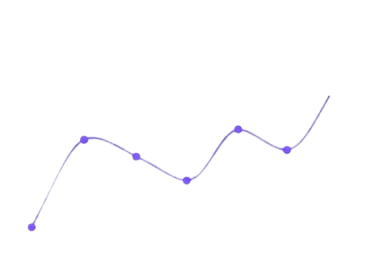
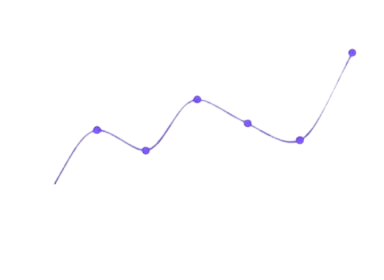
todays tasks UI

diff --git a/src/Pages/Dashboard/components/Task.jsx b/src/Pages/Dashboard/components/Task.jsx
@@ -1,0 +1,29 @@
+const Task = () => {
+  return (
+    <div className="flex items-start gap-4 rounded-xl border border-gray-200 p-3">
+      <input
+        className="mt-1.5 scale-125"
+        type="checkbox"
+        name=""
+        id=""
+        disabled
+      />
+      <div className="flex flex-1 justify-between">
+        <div className="flex flex-col gap-1">
+          <h3 className="text-sm font-bold">Design new dashboard UI</h3>
+          <p className="self-start rounded bg-red-50 px-1.5 py-1 text-sm font-medium text-red-600">
+            High
+          </p>
+          <p className="text-xs font-medium text-gray-400">
+            Due today, 11:59 PM
+          </p>
+        </div>
+        <p className="tag self-center rounded bg-green-200 text-green-600">
+          In Progress
+        </p>
+      </div>
+    </div>
+  );
+};
+
+export default Task;

diff --git a/src/Pages/Dashboard/components/TodaysTasks.jsx b/src/Pages/Dashboard/components/TodaysTasks.jsx
@@ -1,11 +1,17 @@
 import Button from "../../../components/Layout/Button";
+import Task from "./Task";
 
 const TodaysTasks = () => {
   return (
-    <section className="sections flex flex-col">
+    <section className="sections flex flex-col gap-3">
       <div className="flex justify-between">
         <h2 className="section-heading">Today's Tasks</h2>
         {/* <Button className="hollowBtn">View All</Button> */}
+      </div>
+      <div className="flex flex-col gap-3">
+        <Task />
+        <Task />
+        <Task />
       </div>
     </section>
   );

diff --git a/src/index.css b/src/index.css
@@ -30,4 +30,8 @@ body,
   .section-heading {
     @apply text-lg font-bold md:text-lg lg:text-xl xl:font-medium;
   }
+
+  .tag {
+    @apply px-2 py-1 text-sm font-bold;
+  }
 }